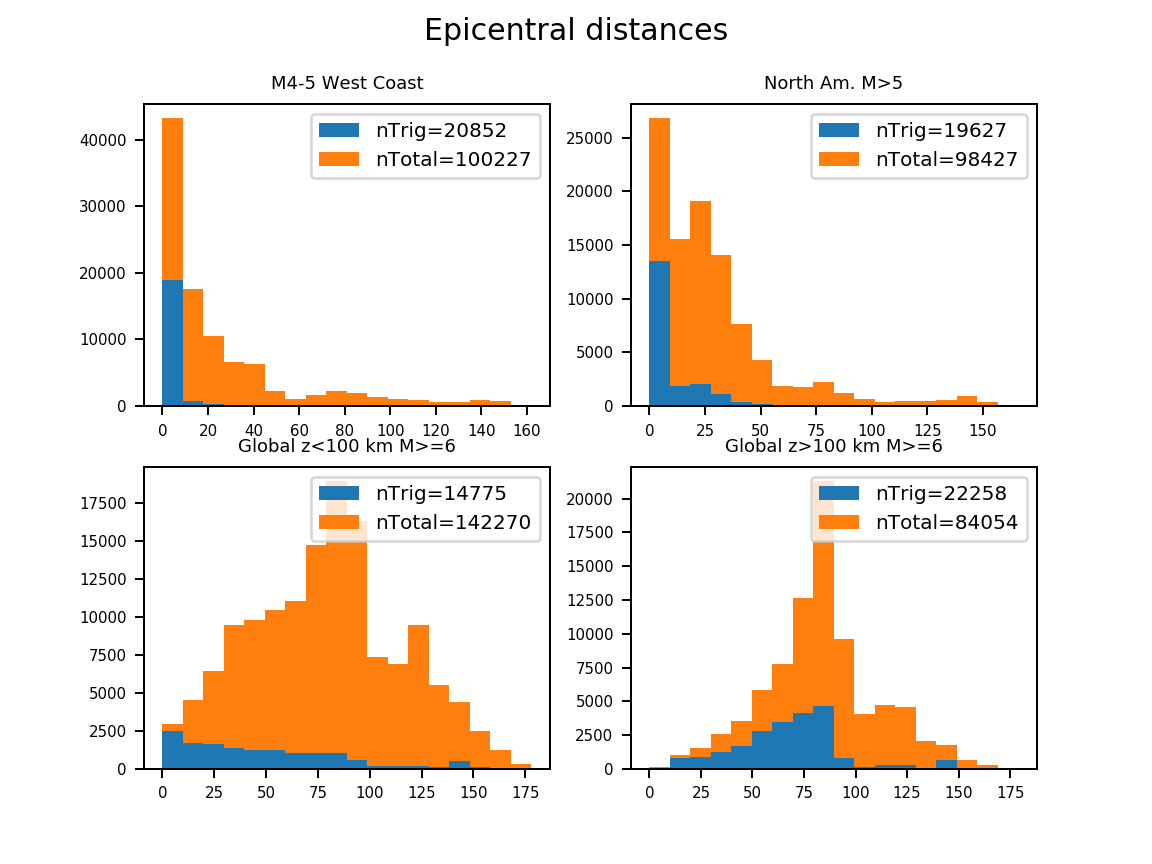
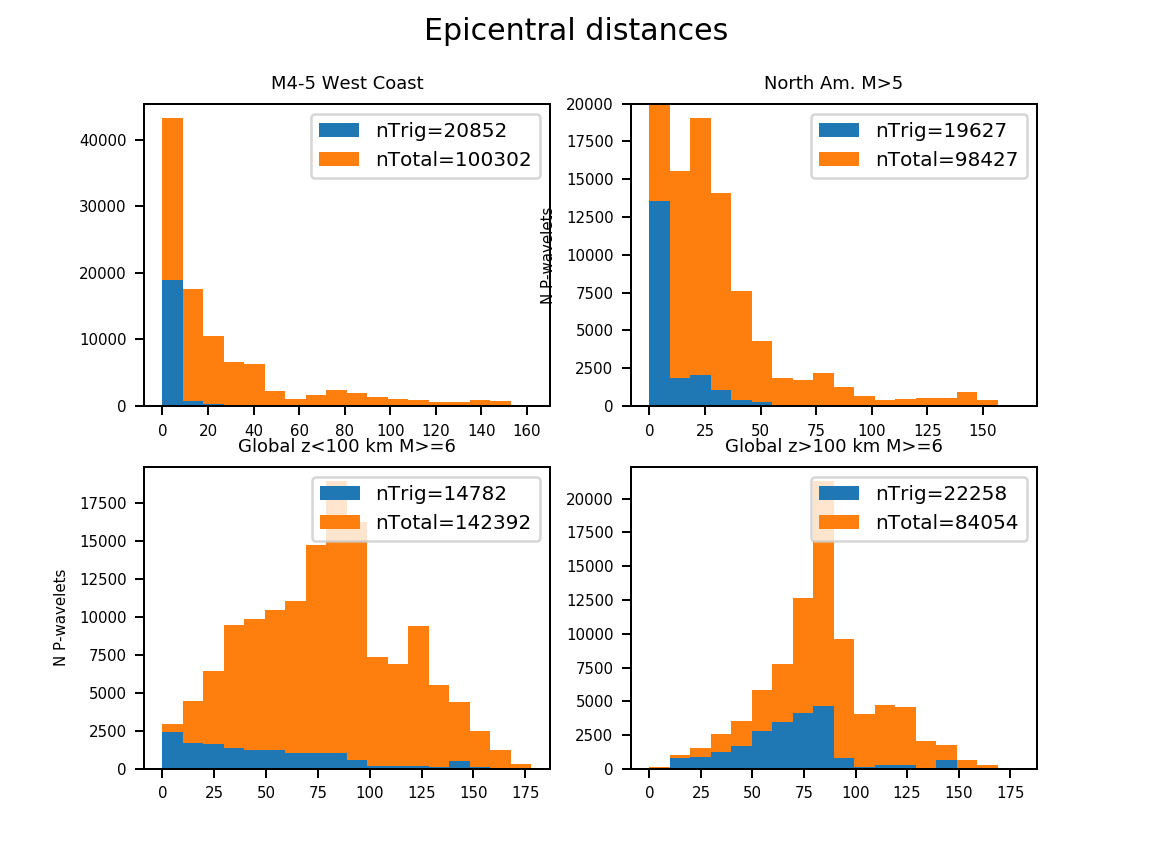
updating histograms

diff --git a/make_histograms.py b/make_histograms.py
@@ -209,14 +209,17 @@ fig, axs = plt.subplots(2, 2)
 axs[0,0].set_title('M4-5 West Coast')
 axs[0,0].hist([xY[0],xN[0]],nbins,stacked=True,label=('nTrig='+str(len(xY[0])),'nTotal='+str(len(x[0]))))
 axs[0,0].legend(prop={'size': 8})
+axs[0,1].set_ylim([0,20000])
 
 axs[0,1].set_title('North Am. M>5')
 axs[0,1].hist([xY[1],xN[1]],nbins,stacked=True,label=('nTrig='+str(len(xY[1])),'nTotal='+str(len(x[1]))))
 axs[0,1].legend(prop={'size': 8})
+axs[0,1].set_ylabel('N P-wavelets')
 
 axs[1,0].set_title('Global z<100 km M>=6')
 axs[1,0].hist([xY[2],xN[2]],nbins,stacked=True,label=('nTrig='+str(len(xY[2])),'nTotal='+str(len(x[2]))))
 axs[1,0].legend(prop={'size': 8})
+axs[1,0].set_ylabel('N P-wavelets')
 
 axs[1,1].set_title('Global z>100 km M>=6')
 axs[1,1].hist([xY[3],xN[3]],nbins,stacked=True,label=('nTrig='+str(len(xY[3])),'nTotal='+str(len(x[3]))))
@@ -242,11 +245,13 @@ nbins = int(10*(max(x[1]) - min(x[1]))) +1
 axs[0,1].set_title('North Am. M>5')
 axs[0,1].hist([xY[1],xN[1]],nbins,stacked=True,label=('nTrig='+str(len(xY[1])),'nTotal='+str(len(x[1]))))
 axs[0,1].legend(prop={'size': 8})
+axs[0,1].set_ylabel('N P-wavelets')
 
 nbins = int(10*(max(x[2]) - min(x[2]))) +1
 axs[1,0].set_title('Global z<100 km M>=6')
 axs[1,0].hist([xY[2],xN[2]],nbins,stacked=True,label=('nTrig='+str(len(xY[2])),'nTotal='+str(len(x[2]))))
 axs[1,0].legend(prop={'size': 8})
+axs[1,0].set_ylabel('N P-wavelets')
 
 nbins = int(10*(max(x[3]) - min(x[3]))) +1
 axs[1,1].set_title('Global z>100 km M>=6')
@@ -272,10 +277,12 @@ axs[0,0].legend(prop={'size': 8})
 axs[0,1].set_title('North Am. M>5')
 axs[0,1].hist([xY[1],xN[1]],nbins,stacked=True,label=('nTrig='+str(len(xY[1])),'nTotal='+str(len(x[1]))))
 axs[0,1].legend(prop={'size': 8})
+axs[0,1].set_ylabel('N P-wavelets')
 
 axs[1,0].set_title('Global z<100 km M>=6')
 axs[1,0].hist([xY[2],xN[2]],nbins,stacked=True,label=('nTrig='+str(len(xY[2])),'nTotal='+str(len(x[2]))))
 axs[1,0].legend(prop={'size': 8})
+axs[1,0].set_ylabel('N P-wavelets')
 
 axs[1,1].set_title('Global z>100 km M>=6')
 axs[1,1].hist([xY[3],xN[3]],nbins,stacked=True,label=('nTrig='+str(len(xY[3])),'nTotal='+str(len(x[3]))))
